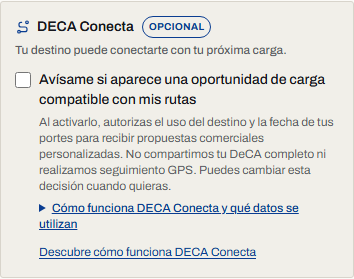
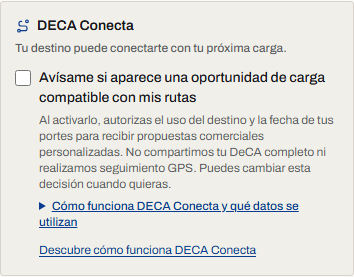
fix(DECA Conecta): remove the OPCIONAL badge pill (D-201e)
User instruction, superseding the task spec. The visible OPCIONAL pill is
removed from both cards (commercial-opt-in.tsx, commercial-treatment-settings.tsx);
the `badge` i18n key dropped from all 8 locales; the two toContainText("OPCIONAL")
assertions removed. The feature is still described as optional in the intro,
the prose, the legal copy and the per-DeCA wizard legend — only the pill is gone.
deca-conecta-registro.png + privacidad.png re-captured.

Gate: tsc / eslint / prettier / keel-verify clean; 394 unit; commercial-consent
23/23. No schema change, no migration.

Claude-Session: https://claude.ai/code/session_01AdGEWf3fw878dANwynJTQh

diff --git a/lib/i18n/dictionaries/fr.ts b/lib/i18n/dictionaries/fr.ts
@@ -391,7 +391,6 @@ export const fr = {
     },
     commercialOptIn: {
       brand: "DECA Conecta",
-      badge: "OPTIONNEL",
       tagline: "Votre destination peut vous connecter à votre prochain chargement.",
       label: "Prévenez-moi si une opportunité de fret compatible avec mes trajets apparaît",
       hint: "En l'activant, vous autorisez l'utilisation de la destination et de la date de vos transports pour recevoir des propositions commerciales personnalisées. Nous ne partageons pas votre DeCA complet et ne faisons pas de suivi GPS. Vous pouvez changer cette décision quand vous le souhaitez.",
@@ -563,7 +562,6 @@ export const fr = {
         "DECA Conecta vous permet de recevoir des opportunités de fret basées sur la destination et la date de vos transports. C'est un service facultatif : ne pas l'activer n'affecte ni la création, la gestion ou la conservation de vos DeCA, ni l'usage gratuit de la plateforme.",
       freeUseNote:
         "Refuser ou retirer le consentement n'affecte en rien l'usage gratuit de DeCA Profesional.",
-      badge: "OPTIONNEL",
       tagline: "Votre destination peut vous connecter à votre prochain chargement.",
       supporting:
         "Vous décidez si DeCA Profesional peut communiquer certaines informations de disponibilité à des chargeurs intéressés pour vous adresser des propositions commerciales personnalisées et préférentielles de fret. Vous pouvez changer cette décision quand vous le souhaitez.",

diff --git a/lib/i18n/dictionaries/it.ts b/lib/i18n/dictionaries/it.ts
@@ -391,7 +391,6 @@ export const it = {
     },
     commercialOptIn: {
       brand: "DECA Conecta",
-      badge: "OPZIONALE",
       tagline: "La tua destinazione può collegarti al tuo prossimo carico.",
       label: "Avvisami se compare un'opportunità di carico compatibile con i miei percorsi",
       hint: "Attivandolo, autorizzi l'uso della destinazione e della data dei tuoi trasporti per ricevere proposte commerciali personalizzate. Non condividiamo il tuo DeCA completo né effettuiamo tracciamento GPS. Puoi cambiare questa decisione quando vuoi.",
@@ -558,7 +557,6 @@ export const it = {
         "DECA Conecta ti permette di ricevere opportunità di carico basate sulla destinazione e sulla data dei tuoi trasporti. È un servizio opzionale: non attivarlo non incide sulla creazione, gestione o conservazione dei tuoi DeCA né sull'uso gratuito della piattaforma.",
       freeUseNote:
         "Rifiutare o ritirare il consenso non incide in alcun modo sull'uso gratuito di DeCA Profesional.",
-      badge: "OPZIONALE",
       tagline: "La tua destinazione può collegarti al tuo prossimo carico.",
       supporting:
         "Sei tu a decidere se DeCA Profesional può comunicare determinati dati di disponibilità a caricatori interessati a inviarti offerte commerciali personalizzate e preferenziali di carico. Puoi cambiare questa decisione quando vuoi.",

diff --git a/lib/i18n/dictionaries/eu.ts b/lib/i18n/dictionaries/eu.ts
@@ -399,7 +399,6 @@ export const eu = {
     },
     commercialOptIn: {
       brand: "DECA Conecta",
-      badge: "AUKERAKOA",
       tagline: "Zure helmugak zure hurrengo kargarekin lot zaitzake.",
       label: "Jakinarazi nire ibilbideekin bat datorren karga-aukera bat agertzen bada",
       hint: "Aktibatzean, zure garraioen helmuga eta data erabiltzeko baimena ematen duzu, proposamen komertzial pertsonalizatuak jasotzeko. Ez dugu zure DeCA osoa partekatzen, ezta GPS bidezko jarraipenik egiten ere. Erabaki hau noiznahi alda dezakezu.",
@@ -570,7 +569,6 @@ export const eu = {
         "DECA Conecta-k zure garraioen helmugan eta datan oinarritutako karga-aukerak jasotzeko aukera ematen dizu. Aukerako zerbitzua da: ez aktibatzeak ez die eragiten zure DeCA-ak sortzeari, kudeatzeari edo gordetzeari, ezta plataformaren doako erabilerari ere.",
       freeUseNote:
         "Baimena ukatzeak edo kentzeak ez du inola ere eragiten DeCA Profesional doan erabiltzean.",
-      badge: "AUKERAKOA",
       tagline: "Zure helmugak zure hurrengo kargarekin lot zaitzake.",
       supporting:
         "Zuk erabakitzen duzu DeCA Profesional-ek eskuragarritasun-datu jakin batzuk komunika diezazkiekeen proposamen komertzial pertsonalizatu eta lehenetsiak bidali nahi dizkizuten kargatzaileei. Erabaki hau noiznahi alda dezakezu.",

diff --git a/lib/i18n/dictionaries/ca.ts b/lib/i18n/dictionaries/ca.ts
@@ -390,7 +390,6 @@ export const ca = {
     },
     commercialOptIn: {
       brand: "DECA Conecta",
-      badge: "OPCIONAL",
       tagline: "El teu destí pot connectar-te amb la teva propera càrrega.",
       label: "Avisa'm si apareix una oportunitat de càrrega compatible amb les meves rutes",
       hint: "En activar-ho, autoritzes l'ús del destí i la data dels teus ports per rebre propostes comercials personalitzades. No compartim el teu DeCA complet ni fem seguiment GPS. Pots canviar aquesta decisió quan vulguis.",
@@ -556,7 +555,6 @@ export const ca = {
         "DECA Conecta et permet rebre oportunitats de càrrega basades en el destí i la data dels teus ports. És un servei opcional: no activar-lo no afecta la creació, la gestió o la conservació dels teus DeCA ni l'ús gratuït de la plataforma.",
       freeUseNote:
         "Rebutjar o retirar el consentiment no afecta en res l'ús gratuït de DeCA Profesional.",
-      badge: "OPCIONAL",
       tagline: "El teu destí pot connectar-te amb la teva propera càrrega.",
       supporting:
         "Tu decideixes si DeCA Profesional pot comunicar determinades dades de disponibilitat a carregadors interessats a enviar-te propostes comercials personalitzades i preferents de càrrega. Pots canviar aquesta decisió quan vulguis.",

diff --git a/lib/i18n/dictionaries/gl.ts b/lib/i18n/dictionaries/gl.ts
@@ -390,7 +390,6 @@ export const gl = {
     },
     commercialOptIn: {
       brand: "DECA Conecta",
-      badge: "OPCIONAL",
       tagline: "O teu destino pode conectarte coa túa próxima carga.",
       label: "Avísame se aparece unha oportunidade de carga compatible coas miñas rutas",
       hint: "Ao activalo, autorizas o uso do destino e a data dos teus portes para recibir propostas comerciais personalizadas. Non compartimos o teu DeCA completo nin realizamos seguimento GPS. Podes cambiar esta decisión cando queiras.",
@@ -558,7 +557,6 @@ export const gl = {
         "DECA Conecta permíteche recibir oportunidades de carga baseadas no destino e a data dos teus portes. É un servizo opcional: non activalo non afecta a creación, a xestión ou a conservación dos teus DeCA nin o uso gratuíto da plataforma.",
       freeUseNote:
         "Rexeitar ou retirar o consentimento non afecta en nada o uso gratuíto de DeCA Profesional.",
-      badge: "OPCIONAL",
       tagline: "O teu destino pode conectarte coa túa próxima carga.",
       supporting:
         "Ti decides se DeCA Profesional pode comunicar determinados datos de dispoñibilidade a cargadores interesados en enviarche propostas comerciais personalizadas e preferentes de carga. Podes cambiar esta decisión cando queiras.",

diff --git a/lib/i18n/dictionaries/es.ts b/lib/i18n/dictionaries/es.ts
@@ -389,7 +389,6 @@ export const es = {
      */
     commercialOptIn: {
       brand: "DECA Conecta",
-      badge: "OPCIONAL",
       tagline: "Tu destino puede conectarte con tu próxima carga.",
       label: "Avísame si aparece una oportunidad de carga compatible con mis rutas",
       hint: "Al activarlo, autorizas el uso del destino y la fecha de tus portes para recibir propuestas comerciales personalizadas. No compartimos tu DeCA completo ni realizamos seguimiento GPS. Puedes cambiar esta decisión cuando quieras.",
@@ -558,7 +557,6 @@ export const es = {
         "DECA Conecta te permite recibir oportunidades de carga basadas en el destino y la fecha de tus portes. Es un servicio opcional: no activarlo no afecta a la creación, gestión o conservación de tus DeCA ni al uso gratuito de la plataforma.",
       freeUseNote:
         "Rechazar o retirar el consentimiento no afecta en nada al uso gratuito de DeCA Profesional.",
-      badge: "OPCIONAL",
       tagline: "Tu destino puede conectarte con tu próxima carga.",
       supporting:
         "Tú decides si DeCA Profesional puede comunicar determinados datos de disponibilidad a cargadores interesados en enviarte propuestas comerciales personalizadas y preferentes de carga. Puedes cambiar esta decisión cuando quieras.",

diff --git a/lib/i18n/dictionaries/en.ts b/lib/i18n/dictionaries/en.ts
@@ -380,7 +380,6 @@ export const en = {
     },
     commercialOptIn: {
       brand: "DECA Conecta",
-      badge: "OPTIONAL",
       tagline: "Your destination can connect you to your next load.",
       label: "Notify me if a compatible load opportunity comes up on my routes",
       hint: "When you turn it on, you authorise the use of your jobs' destination and date to receive personalised commercial offers. We don't share your full DeCA or do GPS tracking. You can change this decision whenever you like.",
@@ -543,7 +542,6 @@ export const en = {
         "DECA Conecta lets you receive load opportunities based on the destination and date of your jobs. It is an optional service: not activating it does not affect creating, managing or keeping your DeCAs, or the free use of the platform.",
       freeUseNote:
         "Refusing or withdrawing consent does not affect the free use of DeCA Profesional in any way.",
-      badge: "OPTIONAL",
       tagline: "Your destination can connect you to your next load.",
       supporting:
         "You decide whether DeCA Profesional may pass certain availability details to shippers interested in sending you personalised, preferential freight offers. You can change this decision whenever you like.",

diff --git a/components/app/commercial-treatment-settings.tsx b/components/app/commercial-treatment-settings.tsx
@@ -91,16 +91,11 @@ export function CommercialTreatmentSettings({
       aria-labelledby="deca-conecta"
       className="mt-6 rounded-[var(--radius-lg)] border border-[var(--color-border)] p-5"
     >
-      <div className="flex flex-wrap items-center gap-x-2 gap-y-1">
-        <span className="flex items-center gap-1.5">
-          <RouteIcon width={18} height={18} className="shrink-0 text-[var(--color-primary)]" />
-          <h2 id="deca-conecta" className="text-lg font-bold">
-            {p.sectionTitle}
-          </h2>
-        </span>
-        <span className="rounded-full border border-[var(--color-primary)] px-1.5 py-0.5 text-[10px] font-bold uppercase tracking-wide text-[var(--color-primary)]">
-          {p.badge}
-        </span>
+      <div className="flex items-center gap-1.5">
+        <RouteIcon width={18} height={18} className="shrink-0 text-[var(--color-primary)]" />
+        <h2 id="deca-conecta" className="text-lg font-bold">
+          {p.sectionTitle}
+        </h2>
       </div>
       <p className="mt-1 text-sm font-medium text-[var(--color-text-muted)]">{p.tagline}</p>
       <p className="mt-2 text-sm text-[var(--color-text-muted)]">{p.supporting}</p>

diff --git a/tests/e2e/commercial-consent.spec.ts b/tests/e2e/commercial-consent.spec.ts
@@ -241,7 +241,6 @@ test.describe("#84 → DECA Conecta rename — the two consent surfaces", () => 
     await page.goto("/registro");
     const box = page.getByTestId("commercial-opt-in-box");
     await expect(box).toContainText("DECA Conecta");
-    await expect(box).toContainText("OPCIONAL");
     await expect(box).toContainText("Tu destino puede conectarte con tu próxima carga.");
     await expect(box).not.toContainText("Oportunidades de carga");
     await expect(box).not.toContainText("Kilómetro Cero");
@@ -287,7 +286,6 @@ test.describe("#84 → DECA Conecta rename — the two consent surfaces", () => 
     await expect(page.getByRole("heading", { level: 1, name: "Privacidad" })).toBeVisible();
     const section = page.locator("section[aria-labelledby='deca-conecta']");
     await expect(section.getByRole("heading", { name: "DECA Conecta" })).toBeVisible();
-    await expect(section).toContainText("OPCIONAL");
     await expect(section).toContainText("¿Cuándo quieres activar DECA Conecta?");
     // the visible feature title is no longer "Tratamiento comercial"
     await expect(section.getByRole("heading", { name: "Tratamiento comercial" })).toHaveCount(0);

diff --git a/lib/i18n/dictionaries/de.ts b/lib/i18n/dictionaries/de.ts
@@ -392,7 +392,6 @@ export const de = {
     },
     commercialOptIn: {
       brand: "DECA Conecta",
-      badge: "OPTIONAL",
       tagline: "Ihr Zielort kann Sie mit Ihrer nächsten Ladung verbinden.",
       label:
         "Benachrichtigen Sie mich, wenn eine zu meinen Routen passende Frachtmöglichkeit erscheint",
@@ -567,7 +566,6 @@ export const de = {
         "Mit DECA Conecta können Sie Frachtmöglichkeiten auf Basis von Zielort und Datum Ihrer Transporte erhalten. Es ist ein optionaler Dienst: Ihn nicht zu aktivieren, hat keine Auswirkung auf das Erstellen, Verwalten oder Aufbewahren Ihrer DeCAs oder auf die kostenlose Nutzung der Plattform.",
       freeUseNote:
         "Die Einwilligung abzulehnen oder zu widerrufen, hat keinerlei Auswirkung auf die kostenlose Nutzung von DeCA Profesional.",
-      badge: "OPTIONAL",
       tagline: "Ihr Zielort kann Sie mit Ihrer nächsten Ladung verbinden.",
       supporting:
         "Sie entscheiden, ob DeCA Profesional bestimmte Verfügbarkeitsdaten an Verlader weitergeben darf, die Ihnen personalisierte und bevorzugte Frachtangebote machen möchten. Sie können diese Entscheidung jederzeit ändern.",

diff --git a/components/auth/commercial-opt-in.tsx b/components/auth/commercial-opt-in.tsx
@@ -32,14 +32,9 @@ export function CommercialOptIn({
       data-testid="commercial-opt-in-box"
       className="mt-4 rounded-[var(--radius-md)] border border-[var(--color-border)] bg-[var(--color-surface)] p-3.5"
     >
-      <div className="flex flex-wrap items-center gap-x-2 gap-y-1">
-        <span className="flex items-center gap-1.5">
-          <RouteIcon width={16} height={16} className="shrink-0 text-[var(--color-primary)]" />
-          <span className="text-sm font-semibold">{c.brand}</span>
-        </span>
-        <span className="rounded-full border border-[var(--color-primary)] px-1.5 py-0.5 text-[10px] font-bold uppercase tracking-wide text-[var(--color-primary)]">
-          {c.badge}
-        </span>
+      <div className="flex items-center gap-1.5">
+        <RouteIcon width={16} height={16} className="shrink-0 text-[var(--color-primary)]" />
+        <span className="text-sm font-semibold">{c.brand}</span>
       </div>
       <p className="mt-1 text-xs font-medium text-[var(--color-text-muted)]">{c.tagline}</p>
 

diff --git a/docs/token-ledger.md b/docs/token-ledger.md
@@ -50,3 +50,4 @@ AI cost mode: subscription (Claude Code) — marginal cost ≈ €0.
 | 2026-09-10 | Maintenance — D-201b: guide "## DECA Conecta" section (task's exact copy) replacing "Oportunidades de carga", wizard per-DeCA legend → "DECA Conecta (opcional)" (8 locales), 2 new + 1 re-captured guide screenshots. Guide prod CMS row updated in place (targeted update, no reseed/dup). New screenshots go live on the next redeploy. | claude-sonnet-5 | ~3M | tsc + eslint + prettier + keel-verify clean; 394 unit; guia-uso 3/3 + content-cms 6/6 + commercial-consent 23/23; build OK |
 | 2026-09-10 | Maintenance — D-201c: prod guide CMS row updated in place with the DECA Conecta section (no dup, verified live 200/~1s). Flagged: D-201/b on `develop` not `main` → guide text leads the live UI + 3 guide screenshots need the next redeploy. Remaining: article screenshots/links (/admin/blog), Guides card, OG image. | claude-sonnet-5 | ~1M | prod CMS update verified; article internal links checked |
 | 2026-09-10 | Maintenance — D-201d: merged `develop`→`main` (`cc82787`) — DECA Conecta (D-201/b/c) + D-200 badge chip. No gap (branches identical), zero migrations across the whole session (verified `git diff bcb3060..HEAD` on prisma/ empty; production 39/39). Not deployed (manual). | claude-sonnet-5 | ~1M | git verification; CI run 34534080435 on `main` |
+| 2026-09-10 | Maintenance — D-201e: removed the OPCIONAL badge pill from both DECA Conecta cards (user instruction, supersedes the spec); dropped the `badge` i18n key ×8, 2 test assertions, re-captured 2 screenshots. Prose/legal/wizard still say "opcional". | claude-sonnet-5 | ~1M | tsc + eslint + prettier + keel-verify clean; 394 unit; commercial-consent 23/23; build OK |
